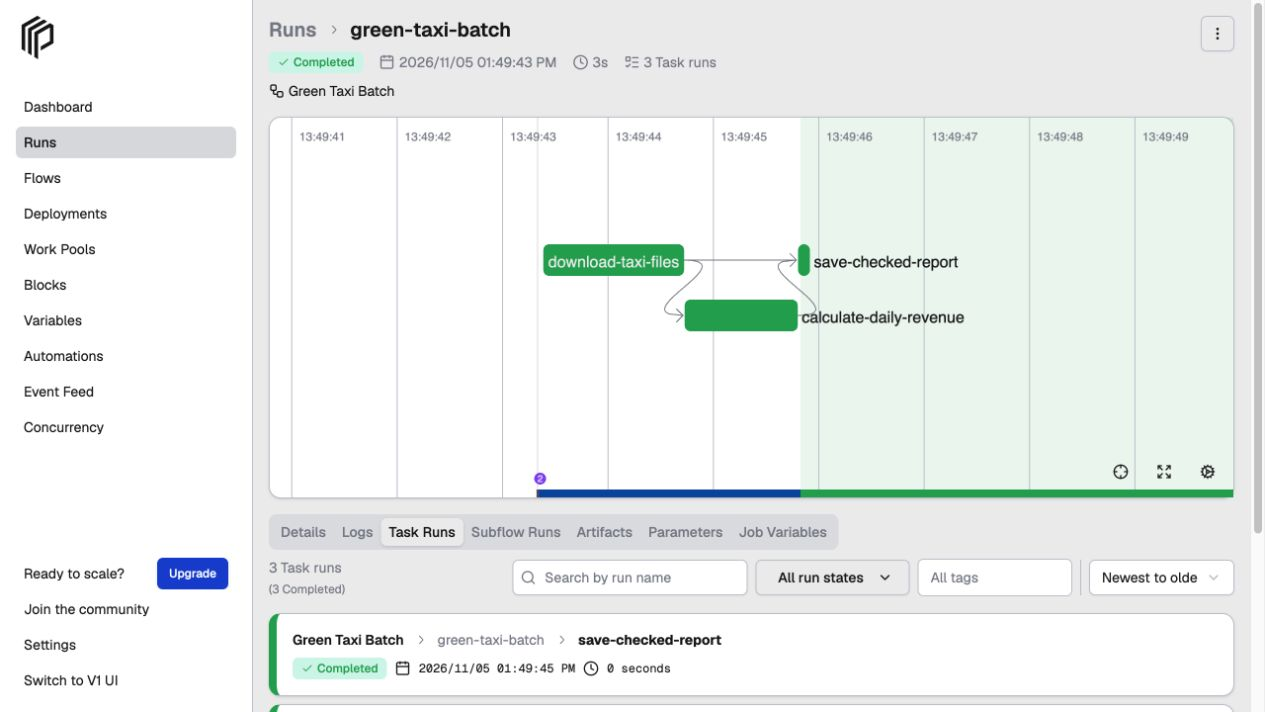
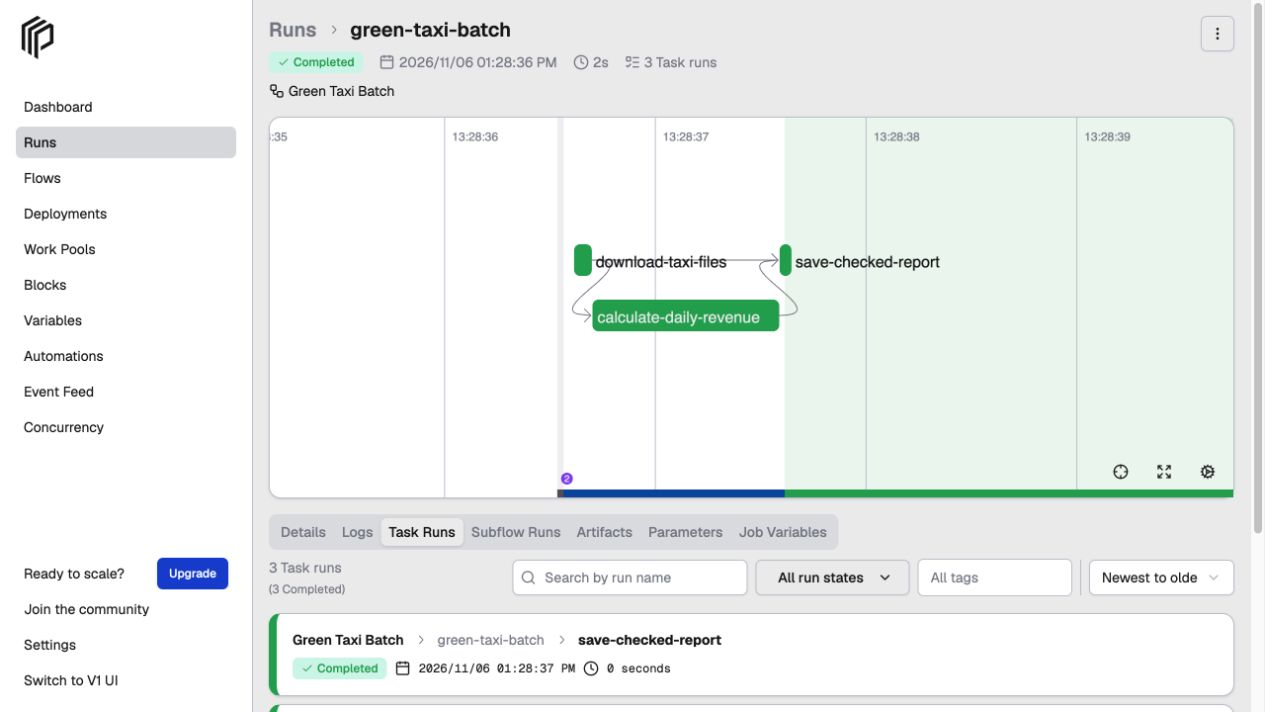
docs: show matching ETL and ELT Prefect runs

diff --git a/README.md b/README.md
@@ -125,6 +125,12 @@ Each flow reuses its plain Python pipeline's objects and rules.
 
 *An actual ETL run: bars show timings and arrows show dependencies.*
 
+<p align="center">
+  <a href="docs/assets/prefect-elt-run.jpg"><img src="docs/assets/prefect-elt-run.jpg" width="850" alt="Completed Prefect ELT run with download, raw loading, SQL transformation and report saving tasks"></a>
+</p>
+
+*An actual ELT run: the raw load comes before the SQL transformation.*
+
 Runs start manually. Logs show each stage and the final totals; temporary download
 failures get up to three attempts. Prefect is a local run view, not a revenue dashboard.
 
@@ -260,7 +266,7 @@ nyc-taxi-revenue-data-pipeline/
 │   └── docker/                     # Image and Compose checks
 ├── notebooks/                      # Optional data exploration
 ├── docs/                           # Design, data review and run guide
-│   └── assets/                     # Pipeline diagram, terminal GIF and ETL screenshot
+│   └── assets/                     # Pipeline diagram, terminal GIF and Prefect screenshots
 ├── data/                           # Generated locally; ignored by Git
 │   ├── raw/                        # Staged source files
 │   ├── processed/                  # ETL facts, date dimension and metadata
